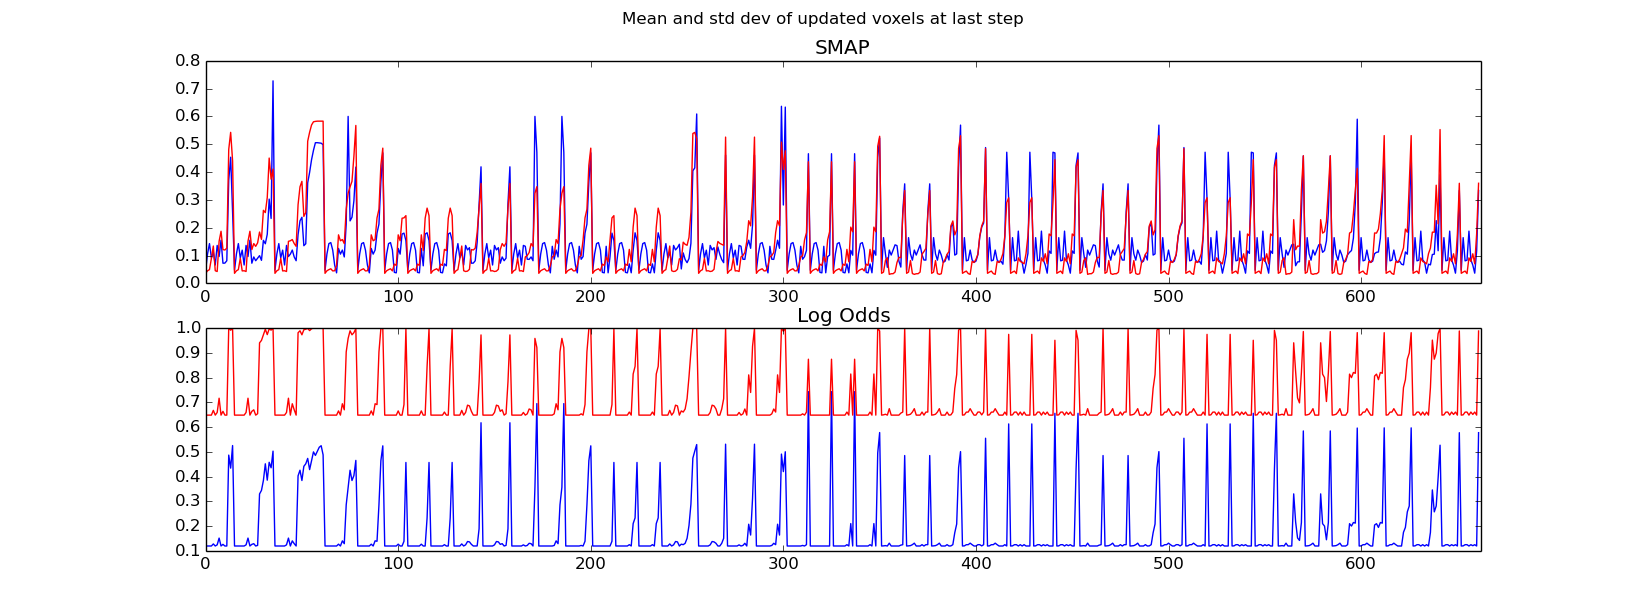
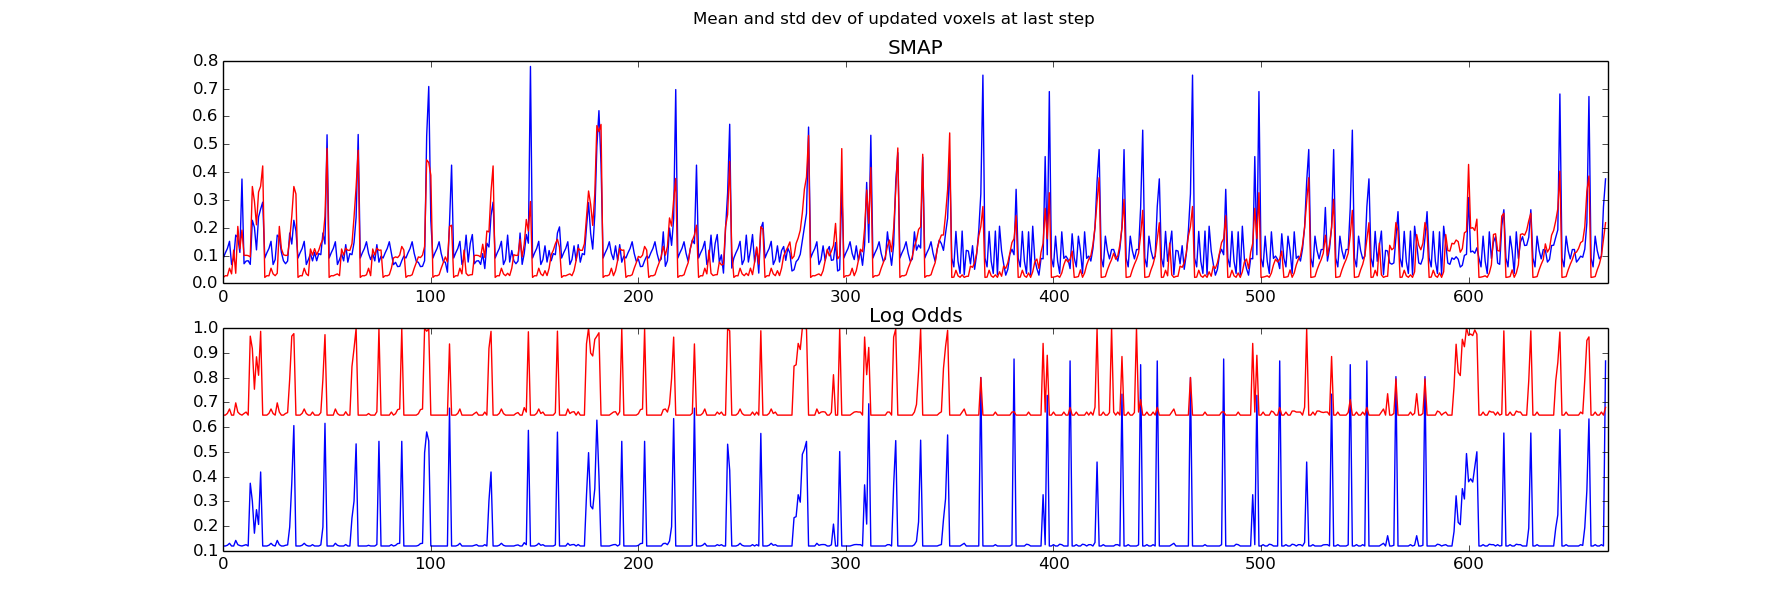
Fixed correlation / distance plots

diff --git a/include/Parameters.hpp b/include/Parameters.hpp
@@ -7,7 +7,7 @@
 //#define FAKE_2D
 //#define PLANNER_2D_TEST
 #define FAKE_3D
-#define MANY_STEPS
+//#define MANY_STEPS
 
 class Parameters
 {
@@ -25,7 +25,7 @@ public:
     // Fake sensor measurements
     //
     static const bool deterministicSensorMeasurements = false;
-    static const unsigned int FakeRobotNumSteps = 3000;
+    static const unsigned int FakeRobotNumSteps = 1600;
 
     //
     // Real sensor measurements
